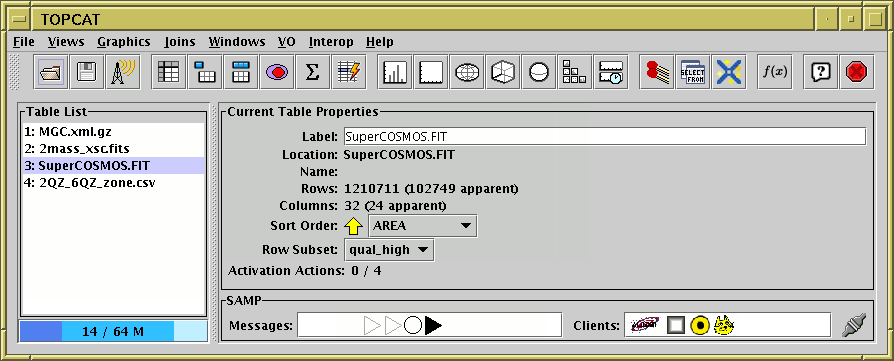
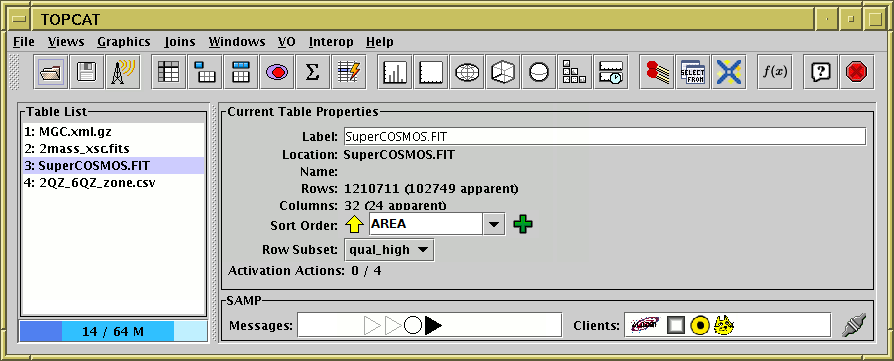
topcat: new sort Add/Remove buttons
You can now define sorting using multiple (ordered) sort keys.

Changed region(s): [[0.3624, 0.5789, 0.604, 0.6704]]

diff --git a/topcat/src/main/uk/ac/starlink/topcat/SortOrderSelector.java b/topcat/src/main/uk/ac/starlink/topcat/SortOrderSelector.java
@@ -3,9 +3,14 @@ package uk.ac.starlink.topcat;
 import gnu.jel.CompilationException;
 import java.awt.event.ActionEvent;
 import java.awt.event.ActionListener;
+import java.beans.PropertyChangeEvent;
+import java.beans.PropertyChangeListener;
 import java.util.ArrayList;
 import java.util.List;
+import javax.swing.Action;
+import javax.swing.Box;
 import javax.swing.BoxLayout;
+import javax.swing.JButton;
 import javax.swing.JComboBox;
 import javax.swing.JPanel;
 import uk.ac.starlink.table.ColumnData;
@@ -18,17 +23,44 @@ import uk.ac.starlink.table.ColumnData;
  */
 public class SortOrderSelector extends JPanel {
 
-    private final List<ColumnDataComboBox> cdataBoxes_;
     private final ActionForwarder forwarder_;
+    private final List<ColumnDataComboBox> cdataBoxes_;
+    private final JButton addButton_;
+    private final JButton removeButton_;
+    private final PropertyChangeListener modelListener_;
+    
     private Model model_;
 
     /**
      * Constructor.
      */
+    @SuppressWarnings("this-escape")
     public SortOrderSelector() {
         setLayout( new BoxLayout( this, BoxLayout.X_AXIS ) );
-        cdataBoxes_ = new ArrayList<ColumnDataComboBox>();
         forwarder_ = new ActionForwarder();
+        cdataBoxes_ = new ArrayList<ColumnDataComboBox>();
+        Action addAct = BasicAction
+                       .create( "Add column selector", ResourceIcon.ADD,
+                                "Add selector for subordinate sort term",
+                                evt -> {
+                                    model_.addSelector();
+                                    updateGui();
+                                } );
+        Action removeAct =
+            BasicAction.create( "Remove column selector", ResourceIcon.SUBTRACT,
+                                "Remove least significant sort term selector",
+                                evt -> {
+                                    model_.removeSelector();
+                                    updateGui();
+                                } );
+        addButton_ = new JButton( addAct );
+        removeButton_ = new JButton( removeAct );
+        for ( JButton butt : new JButton[] { addButton_, removeButton_ } ) {
+            butt.setHideActionText( true );
+            butt.setBorder( javax.swing.BorderFactory.createEmptyBorder() );
+            butt.setContentAreaFilled( false );
+        }
+        modelListener_ = evt -> updateGui();
         setModel( Model.DUMMY_MODEL );
     }
 
@@ -57,20 +89,14 @@ public class SortOrderSelector extends JPanel {
      */
     public void setModel( Model model ) {
         if ( model != model_ ) {
-            for ( ColumnDataComboBox cdataBox : cdataBoxes_ ) {
-                cdataBox.removeActionListener( forwarder_ );
+            if ( model != null ) {
+                model.removePropertyChangeListener( modelListener_ );
             }
-            cdataBoxes_.clear();
             model_ = model;
-            for ( ColumnDataComboBoxModel cdataModel : model.cdataModels_ ) {
-                ColumnDataComboBox cdataBox = new ColumnDataComboBox();
-                cdataBox.addActionListener( forwarder_ );
-                cdataBox.setModel( cdataModel );
-                cdataBoxes_.add( cdataBox );
+            if ( model_ != null ) {
+                model_.addPropertyChangeListener( modelListener_ );
             }
             updateGui();
-            forwarder_.actionPerformed( new ActionEvent( this, 1,
-                                                         "model-change" ) );
         }
     }
 
@@ -91,24 +117,45 @@ public class SortOrderSelector extends JPanel {
 
     /**
      * Updates the content of this component according to its current
-     * internal state.
+     * internal state.  Also notifies listeners that a change may have
+     * been made.
      */
     private void updateGui() {
 
-        /* Replace any existing selection boxes with new ones appropriate
-         * to the current state. */
-        removeAll();
+        /* Release and remove all existing components. */
         for ( ColumnDataComboBox cdataBox : cdataBoxes_ ) {
-            add( cdataBox );
+            cdataBox.removeActionListener( forwarder_ );
         }
+        cdataBoxes_.clear();
+        removeAll();
 
+        /* Add new combo boxes for each selector in the model. */
+        for ( ColumnDataComboBoxModel cdataModel : model_.cdataModels_ ) {
+            ColumnDataComboBox cdataBox = new ColumnDataComboBox();
+            cdataBox.setModel( cdataModel );
+            cdataBox.addActionListener( forwarder_ );
+            add( cdataBox );
+            add( Box.createHorizontalStrut( 5 ) );
+            cdataBoxes_.add( cdataBox );
+        }
+        
         /* Just for cosmetic reasons, paint a useless JComboBox in case of
          * a table-less model. */
         if ( cdataBoxes_.size() == 0 ) {
             JComboBox<?> dummyBox = new JComboBox<Object>();
             dummyBox.setEnabled( false );
             add( dummyBox );
+            add( Box.createHorizontalStrut( 5 ) );
         }
+
+        /* Add buttons for adding/removing selectors. */
+        if ( cdataBoxes_.size() > 1 ) {
+            add( removeButton_ );
+        }
+        add( addButton_ );
+
+        /* Inform listeners that a change may have been made. */
+        forwarder_.actionPerformed( new ActionEvent( this, 1, "change" ) );
 
         /* Update the visual state. */
         updateEnabled();
@@ -125,6 +172,8 @@ public class SortOrderSelector extends JPanel {
         for ( ColumnDataComboBox cdataBox : cdataBoxes_ ) {
             cdataBox.setEnabled( isEnabled );
         }
+        addButton_.setEnabled( isEnabled );
+        removeButton_.setEnabled( isEnabled );
     }
 
     /**
@@ -134,6 +183,7 @@ public class SortOrderSelector extends JPanel {
 
         private final TopcatModel tcModel_;
         private final List<ColumnDataComboBoxModel> cdataModels_;
+        private final List<PropertyChangeListener> listeners_;
         private static final ColumnDataComboBoxModel.Filter comparableFilter_ =
             info -> Comparable.class.isAssignableFrom( info.getContentClass() );
 
@@ -149,10 +199,8 @@ public class SortOrderSelector extends JPanel {
         public Model( TopcatModel tcModel ) {
             tcModel_ = tcModel;
             cdataModels_ = new ArrayList<ColumnDataComboBoxModel>();
-            if ( tcModel != null ) {
-                ColumnDataComboBoxModel boxModel0 = createComboBoxModel();
-                cdataModels_.add( createComboBoxModel() );
-            }
+            listeners_ = new ArrayList<PropertyChangeListener>();
+            addSelector();
         }
 
         /**
@@ -180,14 +228,15 @@ public class SortOrderSelector extends JPanel {
          * @param  sortOrder  new selection, not null
          */
         public void setSelectedSortOrder( SortOrder sortOrder ) {
-            if ( ! sortOrder.equals( getSelectedSortOrder() ) ) {
+            SortOrder oldOrder = getSelectedSortOrder();
+            if ( ! sortOrder.equals( oldOrder ) ) {
                 String[] exprs = sortOrder.getExpressions();
                 int nexpr = exprs.length;
                 while ( cdataModels_.size() > Math.max( 1, nexpr ) ) {
-                    cdataModels_.remove( cdataModels_.size() - 1 );
+                    removeSelector();
                 }
                 while ( cdataModels_.size() < nexpr ) {
-                    cdataModels_.add( createComboBoxModel() );
+                    addSelector();
                 }
                 for ( int i = 0; i < cdataModels_.size(); i++ ) {
                     String expr = i < nexpr ? exprs[ i ] : null;
@@ -201,18 +250,53 @@ public class SortOrderSelector extends JPanel {
                     }
                     cdataModel.setSelectedItem( cdata );
                 }
+                PropertyChangeEvent evt =
+                    new PropertyChangeEvent( this, "selectedSortOrder",
+                                             oldOrder, sortOrder );
+                for ( PropertyChangeListener listener : listeners_ ) {
+                    listener.propertyChange( evt );
+                }
             }
         }
 
         /**
-         * Creates a combo box model that can select one expression part
-         * of a sort order for this model.
+         * Adds a listener that will be informed if the selection has changed.
          *
-         * @return   new combo box model
+         * @param  l  listener
          */
-        private ColumnDataComboBoxModel createComboBoxModel() {
-            return new ColumnDataComboBoxModel( tcModel_, comparableFilter_,
-                                                true, false );
+        public void addPropertyChangeListener( PropertyChangeListener l ) {
+            listeners_.add( l );
+        }
+
+        /**
+         * Removes a previously added listener.
+         *
+         * @param  l  listener
+         */
+        public void removePropertyChangeListener( PropertyChangeListener l ) {
+            listeners_.remove( l );
+        }
+
+        /**
+         * Adds a new selector model.
+         * If this model has no associated TopcatModel, does nothing.
+         */
+        private void addSelector() {
+            if ( tcModel_ != null ) {
+                cdataModels_
+               .add( new ColumnDataComboBoxModel( tcModel_, comparableFilter_,
+                                                  true, false ) );
+            }
+        }
+
+        /**
+         * Removes the least significant selector model,
+         * if more than one exists.
+         */
+        private void removeSelector() {
+            if ( cdataModels_.size() > 0 ) {
+                cdataModels_.remove( cdataModels_.size() - 1 );
+            }
         }
     }
 }
